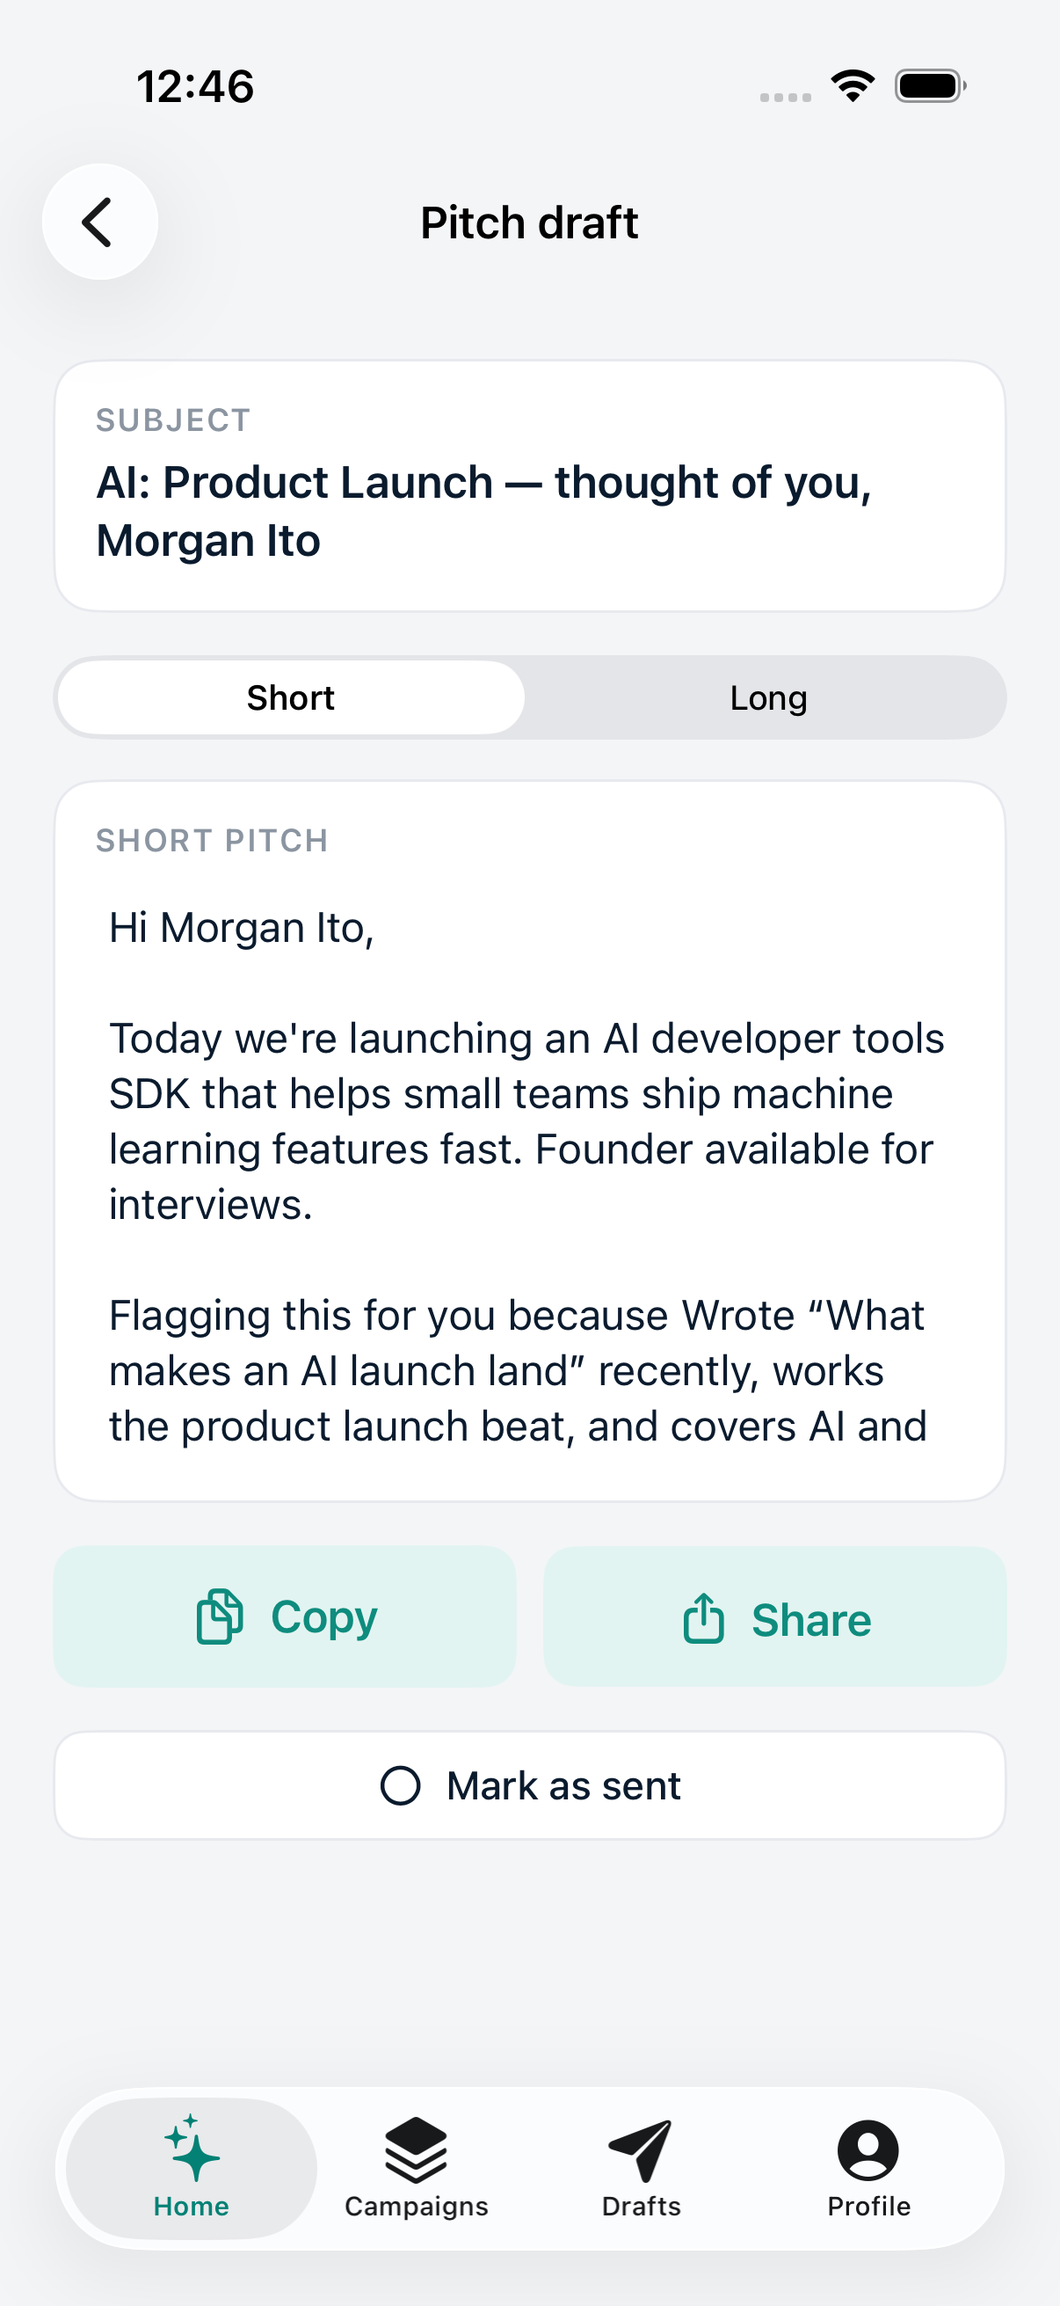
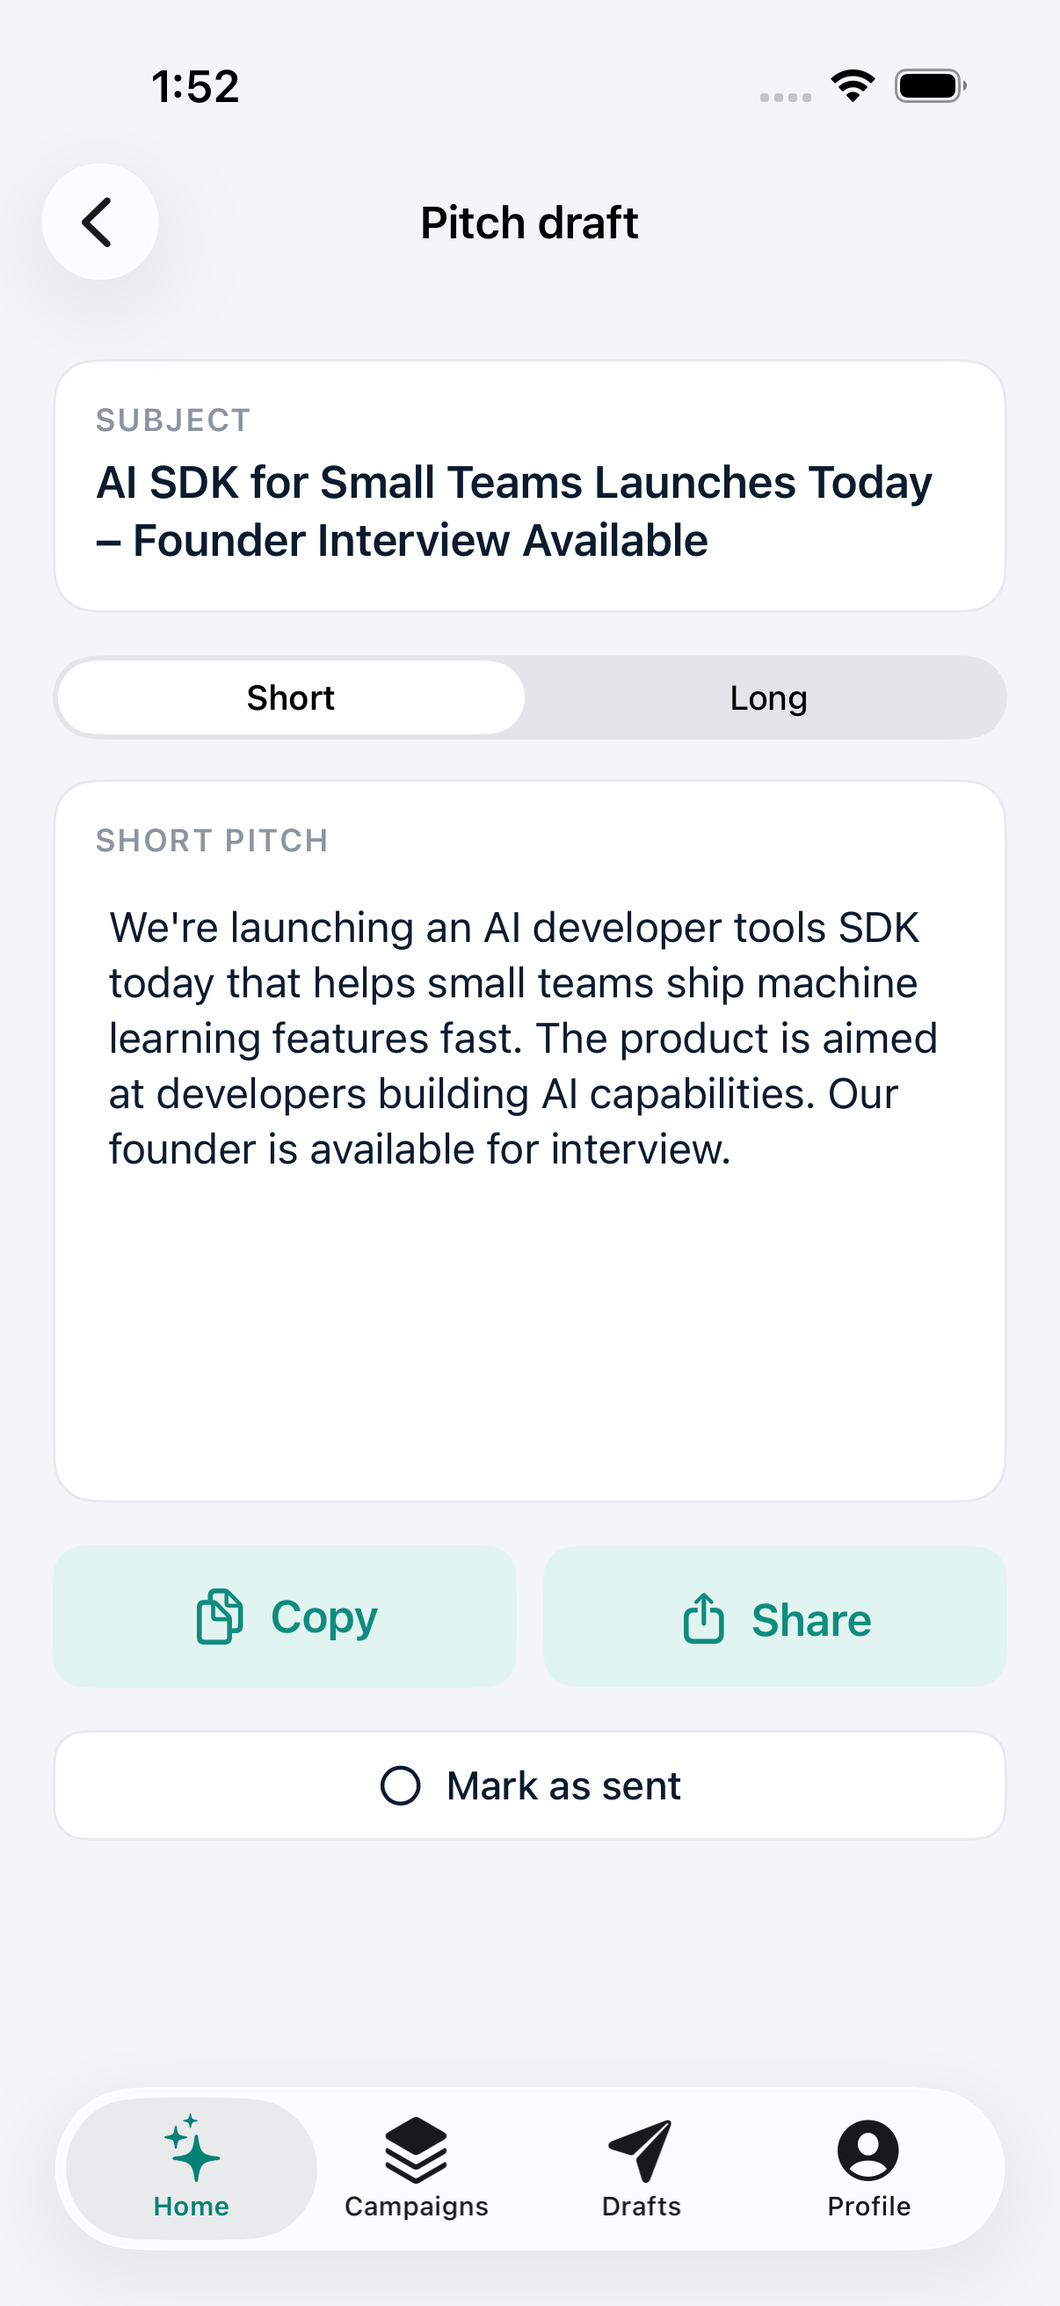
AI is live — backend deployed, app connected, real LLM output
The Worker is deployed at pitchwire-ai.divine-mountain-8173.workers.dev and
the app connects to it. Story analysis, match explanations, and pitch
drafting now come from a real model.

Backend (backend/src/worker.js):
- z.ai's API is Aliyun-fronted and blocks Cloudflare Worker egress IPs
  (405 zh-cn WAF page). Worked around: NVIDIA NIM carries the chain
  (gpt-oss-120b for quality, gpt-oss-20b for fast), z.ai stays listed and
  lights up if the gateway ever moves off Cloudflare. llama-3.1/3.3 were
  retired 2026-08-26 — replaced.
- Tolerates the NVIDIA_API_Key secret-name casing.
- storyAnalysis system prompt constrains every field to the enum values
  StoryAnalysisResult expects → clean JSON decode.
- pitchDraft prompt demands plain SUBJECT/SHORT/LONG; accumulates all
  provider errors in the 502 detail; UA header; no chain-break except 401/403.

App:
- AIConfiguration.from(dict:) extracted + tested (pure, no bundle needed).
- DefaultPitchDraftingService.parse() strips markdown (**SUBJECT:**, ### Long:),
  cuts each section at the next label, falls back to template on garbage.
  PitchDraftingTests (4).
- AIConfig.plist (gitignored, real URL+token) points the app at the Worker;
  verified end-to-end — pitch drafts reference the journalist's real bylines.

36 unit + 2 UI tests green. Screenshots now show real gpt-oss output.

Claude-Session: https://claude.ai/code/session_013ymha6n2L9SfifjYS1iGM9

diff --git a/backend/src/worker.js b/backend/src/worker.js
@@ -13,25 +13,54 @@
  * A z.ai rate-limit is invisible to the user.
  */
 
+// Failover chain (all free).
+//
+// z.ai's API is fronted by Aliyun, which blocks Cloudflare Worker egress IPs
+// (405 "zh-cn" WAF page — the API works fine from a normal host). Until the
+// gateway moves off Cloudflare or proxies z.ai (e.g. via OpenRouter), NVIDIA NIM
+// carries the chain. z.ai stays listed so it lights up the moment it's reachable.
+//
+// Verify these IDs periodically — z.ai renames its flash tier and NVIDIA retires
+// models on a schedule (llama-3.1/3.3 were retired 2026-08-26).
+const NVIDIA_PRIMARY = "nvidia:openai/gpt-oss-120b";
+const NVIDIA_LIGHT   = "nvidia:openai/gpt-oss-20b";
 const TASK_MODELS = {
   // fast tier — extraction / classification
-  storyAnalysis:    ["glm-4.7-flash", "glm-4.5-flash", "nvidia:meta/llama-3.3-70b-instruct"],
-  matchExplanation: ["glm-4.7-flash", "glm-4.5-flash", "nvidia:meta/llama-3.3-70b-instruct"],
-  // quality tier — user-facing prose. Swap the head to glm-5.3-flash (paid) if
-  // free-tier limits bite AND draft polish is shown to matter.
-  pitchDraft:       ["glm-4.7-flash", "glm-4.5-flash", "nvidia:meta/llama-3.3-70b-instruct"],
-  pitchRewrite:     ["glm-4.7-flash", "glm-4.5-flash", "nvidia:meta/llama-3.3-70b-instruct"],
-  subjectLine:      ["glm-4.7-flash", "glm-4.5-flash"],
-  followUp:         ["glm-4.7-flash", "glm-4.5-flash"],
+  storyAnalysis:    [NVIDIA_LIGHT, NVIDIA_PRIMARY, "glm-4.7-flash", "glm-4.5-flash"],
+  matchExplanation: [NVIDIA_LIGHT, NVIDIA_PRIMARY, "glm-4.7-flash", "glm-4.5-flash"],
+  // quality tier — user-facing prose. Add glm-5.3-flash (paid) to the head if
+  // free capacity ever becomes the bottleneck.
+  pitchDraft:       [NVIDIA_PRIMARY, NVIDIA_LIGHT, "glm-4.7-flash", "glm-4.5-flash"],
+  pitchRewrite:     [NVIDIA_PRIMARY, NVIDIA_LIGHT, "glm-4.7-flash", "glm-4.5-flash"],
+  subjectLine:      [NVIDIA_LIGHT, NVIDIA_PRIMARY, "glm-4.7-flash", "glm-4.5-flash"],
+  followUp:         [NVIDIA_PRIMARY, NVIDIA_LIGHT, "glm-4.7-flash", "glm-4.5-flash"],
 };
 
 const SYSTEM = {
-  storyAnalysis:    "Extract structured fields from a press story. Reply with JSON only: {theme,vertical,region,angle,urgency,summary,audience,subtopics:[],mediaHooks:[]}.",
-  matchExplanation: "Write one plain sentence explaining why a journalist fits a story, using only the facts given.",
-  pitchDraft:       "Write concise, respectful media pitches grounded only in the facts given. No hype, no invented details. Return SUBJECT: <line>\\nSHORT: <text>\\nLONG: <text>.",
-  pitchRewrite:     "Rewrite the pitch to the requested tone, keeping every fact. Return SUBJECT/SHORT/LONG.",
-  subjectLine:      "Write 3 short, specific email subject lines, one per line.",
-  followUp:         "Write a brief, polite follow-up email.",
+  storyAnalysis:
+    "Extract structured fields from a press story. Reply with ONLY a JSON object, no prose, no markdown fences. " +
+    "Keys and allowed values: " +
+    "theme (short noun phrase), " +
+    "vertical (one of: ai, developer tools, consumer, fintech, general tech), " +
+    "region (one of: US, EU, Global), " +
+    "angle (one of: product launch, funding, acquisition, hire, partnership, general news), " +
+    "urgency (one of: standard, time-sensitive), " +
+    "summary (<=220 chars), " +
+    "audience (one of: Developers, Founders & investors, Businesses & teams, Consumers), " +
+    "subtopics (array of <=5 short strings), " +
+    "mediaHooks (array of <=4 short phrases: why a journalist would care).",
+  matchExplanation:
+    "Write ONE plain sentence explaining why a journalist fits a story, using only the facts given. No markdown.",
+  pitchDraft:
+    "Write a concise, respectful media pitch grounded ONLY in the facts given — no hype, no invented details. " +
+    "Output EXACTLY this format, plain text, no markdown, no asterisks, no headers:\n" +
+    "SUBJECT: <one line>\nSHORT: <2-3 sentence pitch>\nLONG: <1-2 short paragraph pitch>",
+  pitchRewrite:
+    "Rewrite the pitch to the requested tone, keeping every fact. Same plain format: SUBJECT: / SHORT: / LONG:. No markdown.",
+  subjectLine:
+    "Write 3 short, specific email subject lines, one per line. No numbering, no markdown.",
+  followUp:
+    "Write a brief, polite follow-up email. Plain text.",
 };
 
 export default {
@@ -73,7 +102,7 @@ export default {
     ];
     const temperature = tier === "fast" ? 0.2 : 0.6;
 
-    let lastErr = "no providers";
+    const errs = [];
     for (const model of TASK_MODELS[task]) {
       try {
         const out = await callModel(model, messages, temperature, env);
@@ -81,12 +110,13 @@ export default {
         ctx.waitUntil(cache.put(cachedURL, json(payload, 200, 60 * 60 * 6))); // 6h
         return json(payload);
       } catch (e) {
-        lastErr = `${model}: ${e.message || e}`;
-        // 4xx that isn't 429 -> don't bother failing over
-        if (e.status && e.status >= 400 && e.status < 500 && e.status !== 429) break;
+        const line = `${model}: ${e.message || e}`;
+        errs.push(line);
+        console.log("provider failed:", line);
+        if (e.status === 401 || e.status === 403) break;
       }
     }
-    return json({ error: "all providers failed", detail: lastErr }, 502);
+    return json({ error: "all providers failed", detail: errs }, 502);
   },
 };
 
@@ -94,7 +124,7 @@ async function callModel(model, messages, temperature, env) {
   let baseURL, apiKey, realModel;
   if (model.startsWith("nvidia:")) {
     baseURL = "https://integrate.api.nvidia.com/v1";
-    apiKey = env.NVIDIA_API_KEY;
+    apiKey = env.NVIDIA_API_KEY || env.NVIDIA_API_Key;   // tolerate the secret-name casing
     realModel = model.slice("nvidia:".length);
   } else {
     baseURL = "https://api.z.ai/api/paas/v4";
@@ -105,11 +135,18 @@ async function callModel(model, messages, temperature, env) {
 
   const res = await fetch(`${baseURL}/chat/completions`, {
     method: "POST",
-    headers: { "Authorization": `Bearer ${apiKey}`, "Content-Type": "application/json" },
-    body: JSON.stringify({ model: realModel, messages, temperature }),
+    headers: {
+      "Authorization": `Bearer ${apiKey}`,
+      "Content-Type": "application/json",
+      "Accept": "application/json",
+      // Aliyun-fronted APIs (z.ai) 405 requests without a UA.
+      "User-Agent": "Pitchwire/1.0 (+https://github.com/AvaJ845/Pitchwire)",
+    },
+    body: JSON.stringify({ model: realModel, messages, temperature, stream: false }),
   });
   if (!res.ok) {
-    const err = new Error(`HTTP ${res.status}`);
+    const body = (await res.text().catch(() => "")).slice(0, 300);
+    const err = new Error(`HTTP ${res.status} ${body}`);
     err.status = res.status;
     throw err;
   }

diff --git a/BeatMatch/Sources/Services/PitchDraftingService.swift b/BeatMatch/Sources/Services/PitchDraftingService.swift
@@ -61,14 +61,29 @@ struct DefaultPitchDraftingService: PitchDraftingService {
         return PitchDraft(subject: subject, shortBody: shortBody, longBody: longBody)
     }
 
-    private static func parse(_ text: String) -> PitchDraft? {
-        func section(_ tag: String) -> String? {
+    static func parse(_ raw: String) -> PitchDraft? {
+        // Models sometimes wrap the labels ("**SUBJECT:**", "### SHORT") — strip
+        // markdown emphasis/heading markers before splitting.
+        let text = raw.replacingOccurrences(of: "*", with: "")
+            .replacingOccurrences(of: "#", with: "")
+            .replacingOccurrences(of: "`", with: "")
+
+        func section(_ tag: String, until others: [String]) -> String? {
             guard let range = text.range(of: "\(tag):", options: .caseInsensitive) else { return nil }
-            let rest = text[range.upperBound...]
-            let end = rest.range(of: "\n[A-Z]+:", options: .regularExpression)?.lowerBound ?? rest.endIndex
-            return rest[..<end].trimmingCharacters(in: .whitespacesAndNewlines)
+            var rest = String(text[range.upperBound...])
+            for other in others {
+                if let cut = rest.range(of: "\(other):", options: .caseInsensitive) {
+                    rest = String(rest[..<cut.lowerBound])
+                }
+            }
+            return rest.trimmingCharacters(in: .whitespacesAndNewlines)
         }
-        guard let subject = section("SUBJECT"), let short = section("SHORT"), let long = section("LONG") else { return nil }
+        guard
+            let subject = section("SUBJECT", until: ["SHORT", "LONG"]),
+            let short = section("SHORT", until: ["LONG", "SUBJECT"]),
+            let long = section("LONG", until: ["SUBJECT", "SHORT"]),
+            !subject.isEmpty, !short.isEmpty, !long.isEmpty
+        else { return nil }
         return PitchDraft(subject: subject, shortBody: short, longBody: long)
     }
 }

diff --git a/BeatMatch/UnitTests/PitchDraftingTests.swift b/BeatMatch/UnitTests/PitchDraftingTests.swift
@@ -1,0 +1,43 @@
+import XCTest
+@testable import Pitchwire
+
+final class PitchDraftingTests: XCTestCase {
+
+    func testParsesCleanLabels() {
+        let d = DefaultPitchDraftingService.parse(
+            "SUBJECT: New tool launches\nSHORT: A short pitch here.\nLONG: A longer pitch.\nMore detail.")
+        XCTAssertEqual(d?.subject, "New tool launches")
+        XCTAssertEqual(d?.shortBody, "A short pitch here.")
+        XCTAssertEqual(d?.longBody, "A longer pitch.\nMore detail.")
+    }
+
+    func testStripsMarkdownWrappedLabels() {
+        let text = """
+        **SUBJECT:** New AI SDK launches today
+
+        **SHORT:** Today we're releasing an AI SDK for small teams.
+
+        **LONG:**
+        Hi Dana, I'm reaching out because you cover dev tools.
+        The SDK ships today.
+        """
+        let d = DefaultPitchDraftingService.parse(text)
+        XCTAssertEqual(d?.subject, "New AI SDK launches today")
+        XCTAssertFalse(d?.subject.contains("*") ?? true)
+        XCTAssertTrue(d?.shortBody.contains("small teams") ?? false)
+        XCTAssertFalse(d?.shortBody.contains("LONG") ?? true)
+        XCTAssertTrue(d?.longBody.contains("cover dev tools") ?? false)
+    }
+
+    func testReturnsNilWhenLabelsAreMissing() {
+        XCTAssertNil(DefaultPitchDraftingService.parse("Just a blob of pitch text with no structure."))
+        XCTAssertNil(DefaultPitchDraftingService.parse("SUBJECT: only a subject, nothing else"))
+    }
+
+    func testHandlesLowercaseAndHeadingMarkers() {
+        let d = DefaultPitchDraftingService.parse("### Subject: Hi\nshort: quick note\n## long: the details")
+        XCTAssertEqual(d?.subject, "Hi")
+        XCTAssertEqual(d?.shortBody, "quick note")
+        XCTAssertEqual(d?.longBody, "the details")
+    }
+}

diff --git a/BeatMatch/UnitTests/AIConfigurationTests.swift b/BeatMatch/UnitTests/AIConfigurationTests.swift
@@ -20,10 +20,19 @@ final class AIConfigurationTests: XCTestCase {
         XCTAssertTrue(c.isConfigured)
     }
 
-    func testFromBundleFallsBackToOfflineWhenNoRealPlist() {
-        // The test bundle has no AIConfig.plist (only AIConfig.example.plist ships,
-        // and it has blank values) → must be offline, never a half-configured state.
-        let c = AIConfiguration.fromBundle(.main)
-        XCTAssertFalse(c.isConfigured)
+    func testFromDictBlankOrMissingIsOffline() {
+        XCTAssertFalse(AIConfiguration.from(dict: [:]).isConfigured)
+        XCTAssertFalse(AIConfiguration.from(dict: ["BaseURL": "", "ClientToken": ""]).isConfigured)
+        XCTAssertFalse(AIConfiguration.from(dict: ["BaseURL": "https://x"]).isConfigured)   // no token
+        XCTAssertFalse(AIConfiguration.from(dict: ["ClientToken": "abc"]).isConfigured)     // no url
+    }
+
+    func testFromDictConfiguredWhenBothPresent() {
+        let c = AIConfiguration.from(dict: [
+            "BaseURL": "https://pitchwire-ai.example.workers.dev",
+            "ClientToken": "tok_abc123",
+        ])
+        XCTAssertTrue(c.isConfigured)
+        XCTAssertEqual(c.baseURL?.host, "pitchwire-ai.example.workers.dev")
     }
 }

diff --git a/BeatMatch/Sources/AI/AIConfiguration.swift b/BeatMatch/Sources/AI/AIConfiguration.swift
@@ -29,7 +29,16 @@ struct AIConfiguration {
         guard
             let url = bundle.url(forResource: "AIConfig", withExtension: "plist"),
             let data = try? Data(contentsOf: url),
-            let dict = try? PropertyListSerialization.propertyList(from: data, format: nil) as? [String: Any],
+            let dict = try? PropertyListSerialization.propertyList(from: data, format: nil) as? [String: Any]
+        else {
+            return .offline
+        }
+        return from(dict: dict)
+    }
+
+    /// Pure mapping from a plist dict — testable without a bundle.
+    static func from(dict: [String: Any]) -> AIConfiguration {
+        guard
             let base = (dict["BaseURL"] as? String).flatMap(URL.init(string:)),
             !base.absoluteString.isEmpty,
             let token = dict["ClientToken"] as? String, !token.isEmpty

diff --git a/backend/README.md b/backend/README.md
@@ -1,15 +1,15 @@
 # Pitchwire AI gateway
 
 The thin backend from the AI Infrastructure Direction. A single Cloudflare Worker:
-the app calls it, it holds the provider keys and runs the GLM → GLM → NVIDIA
-failover. API-first, no servers, no GPU ops.
+the app calls it, it holds the provider keys and runs the failover chain.
+API-first, no servers, no GPU ops. **Deployed and live** at
+`pitchwire-ai.divine-mountain-8173.workers.dev`.
 
 ## What it does
 
 ```
-app ──POST /v1/generate──▶ Worker ──▶ z.ai GLM-4.7-Flash   (free)
-   Bearer <client token>            └▶ z.ai GLM-4.5-Flash   (free, on 429/5xx)
-                                    └▶ NVIDIA NIM            (free, last resort)
+app ──POST /v1/generate──▶ Worker ──▶ NVIDIA NIM gpt-oss-120b / -20b   (free)
+   Bearer <client token>            └▶ z.ai GLM-4.7 / 4.5-Flash        (free — see limitation)
 ◀── { text, model, cached, usage } ─┘
 ```
 
@@ -17,7 +17,21 @@ app ──POST /v1/generate──▶ Worker ──▶ z.ai GLM-4.7-Flash   (free
 - Identical requests are cached 6h (Cache API).
 - Per-IP rate limit (default 20/min) as light abuse protection.
 - Task → model map + system prompts live in `src/worker.js` — change routing
-  there, nothing in the app moves.
+  there, nothing in the app moves. `fast` tasks lead with gpt-oss-20b,
+  `quality` tasks with gpt-oss-120b.
+
+### Known limitation — z.ai on Cloudflare
+
+z.ai's API is fronted by Aliyun, which **blocks Cloudflare Worker egress IPs**
+(returns a 405 `zh-cn` WAF page — the API works fine from a normal host). So on
+Cloudflare, **NVIDIA NIM carries the chain** and the z.ai entries are effectively
+dead. They light up automatically if the gateway moves off Cloudflare (Deno
+Deploy / Fly / a VPS) or proxies z.ai via OpenRouter. NVIDIA's free tier
+(~40 rpm) is plenty for now.
+
+Model IDs drift — z.ai renames its flash tier, NVIDIA retired llama-3.1/3.3 on
+2026-08-26. If calls start 410ing, check `GET https://integrate.api.nvidia.com/v1/models`
+and update `NVIDIA_PRIMARY` / `NVIDIA_LIGHT` in `src/worker.js`.
 
 ## Deploy A — Cloudflare dashboard (no local install)
 

diff --git a/docs/DIRECTION.md b/docs/DIRECTION.md
@@ -194,12 +194,18 @@ data**, working removal pipeline) to unblock matching evaluation now; run **clai
 outreach** in parallel for a consented, 5.1.1(viii)-defensible database. Never buy a list,
 scrape, or use an enrichment provider.
 
-## Backend — see `backend/`
+## Backend — **deployed & live** (`backend/`)
 
-A single Cloudflare Worker implementing the `HTTPGateway` contract: provider keys in Worker
-secrets, task→model map, GLM-4.7 → GLM-4.5 → NVIDIA failover, 6h cache, per-IP rate limit.
-Deployable in ~10 min once z.ai + NVIDIA keys exist. The app stays `.offline` until
-`AIConfiguration.baseURL` is set from a gitignored xcconfig.
+A single Cloudflare Worker at `pitchwire-ai.divine-mountain-8173.workers.dev` implementing the
+`HTTPGateway` contract: keys in Worker secrets, task→model map, failover chain, 6h cache, per-IP
+rate limit. The app connects via a gitignored `BeatMatch/Config/AIConfig.plist`
+(`AIConfiguration.fromBundle()`); `AIConfig.example.plist` is the template.
+
+**Live chain:** NVIDIA NIM `gpt-oss-120b` / `gpt-oss-20b` (free) → z.ai GLM-4.7/4.5-Flash.
+z.ai's API is Aliyun-fronted and **blocks Cloudflare Worker IPs**, so NVIDIA carries it for now;
+z.ai lights up automatically if the gateway moves off Cloudflare or proxies via OpenRouter.
+Real GLM/gpt-oss output verified end-to-end: story analysis returns constrained JSON, pitch
+drafts are grounded in the journalist's actual beat + bylines.
 
 ## Build status
 

diff --git a/START_HERE.md b/START_HERE.md
@@ -98,9 +98,11 @@ BeatMatch/
   (beat, recent coverage, angle, audience, geography, pitch-preference hard-filter, evidence),
   each inspectable. `WeightedRelevanceService` ranks the pool; "why this match" prose is built
   from the driving signals; journalist detail has a "How we scored this" breakdown. Deterministic.
-- **`backend/`** — Cloudflare Worker: the `HTTPGateway` contract, provider keys in secrets,
-  GLM-4.7 → GLM-4.5 → NVIDIA failover, cache, rate limit. `backend/README.md` is the ~10-min
-  deploy runbook. App stays `.offline` until you set `AIConfiguration.baseURL`.
+- **`backend/`** — **DEPLOYED & LIVE** at `pitchwire-ai.divine-mountain-8173.workers.dev`.
+  Cloudflare Worker: keys in Worker secrets, failover chain (NVIDIA `gpt-oss-120b`/`-20b` → z.ai),
+  6h cache, rate limit. The app connects via gitignored `BeatMatch/Config/AIConfig.plist` (template:
+  `AIConfig.example.plist`). z.ai is Aliyun-blocked from Cloudflare — NVIDIA carries it; see
+  `backend/README.md`. `wrangler` is in `backend/`; `npm run deploy` from there.
 - **`docs/SEED_SET.md`** — the fellows' plan for a real 15–20 journalist seed set:
   public-editorial-signal only (no contact data), claimed-profile outreach in parallel, never
   buy/scrape/enrich (5.1.1(viii)).
